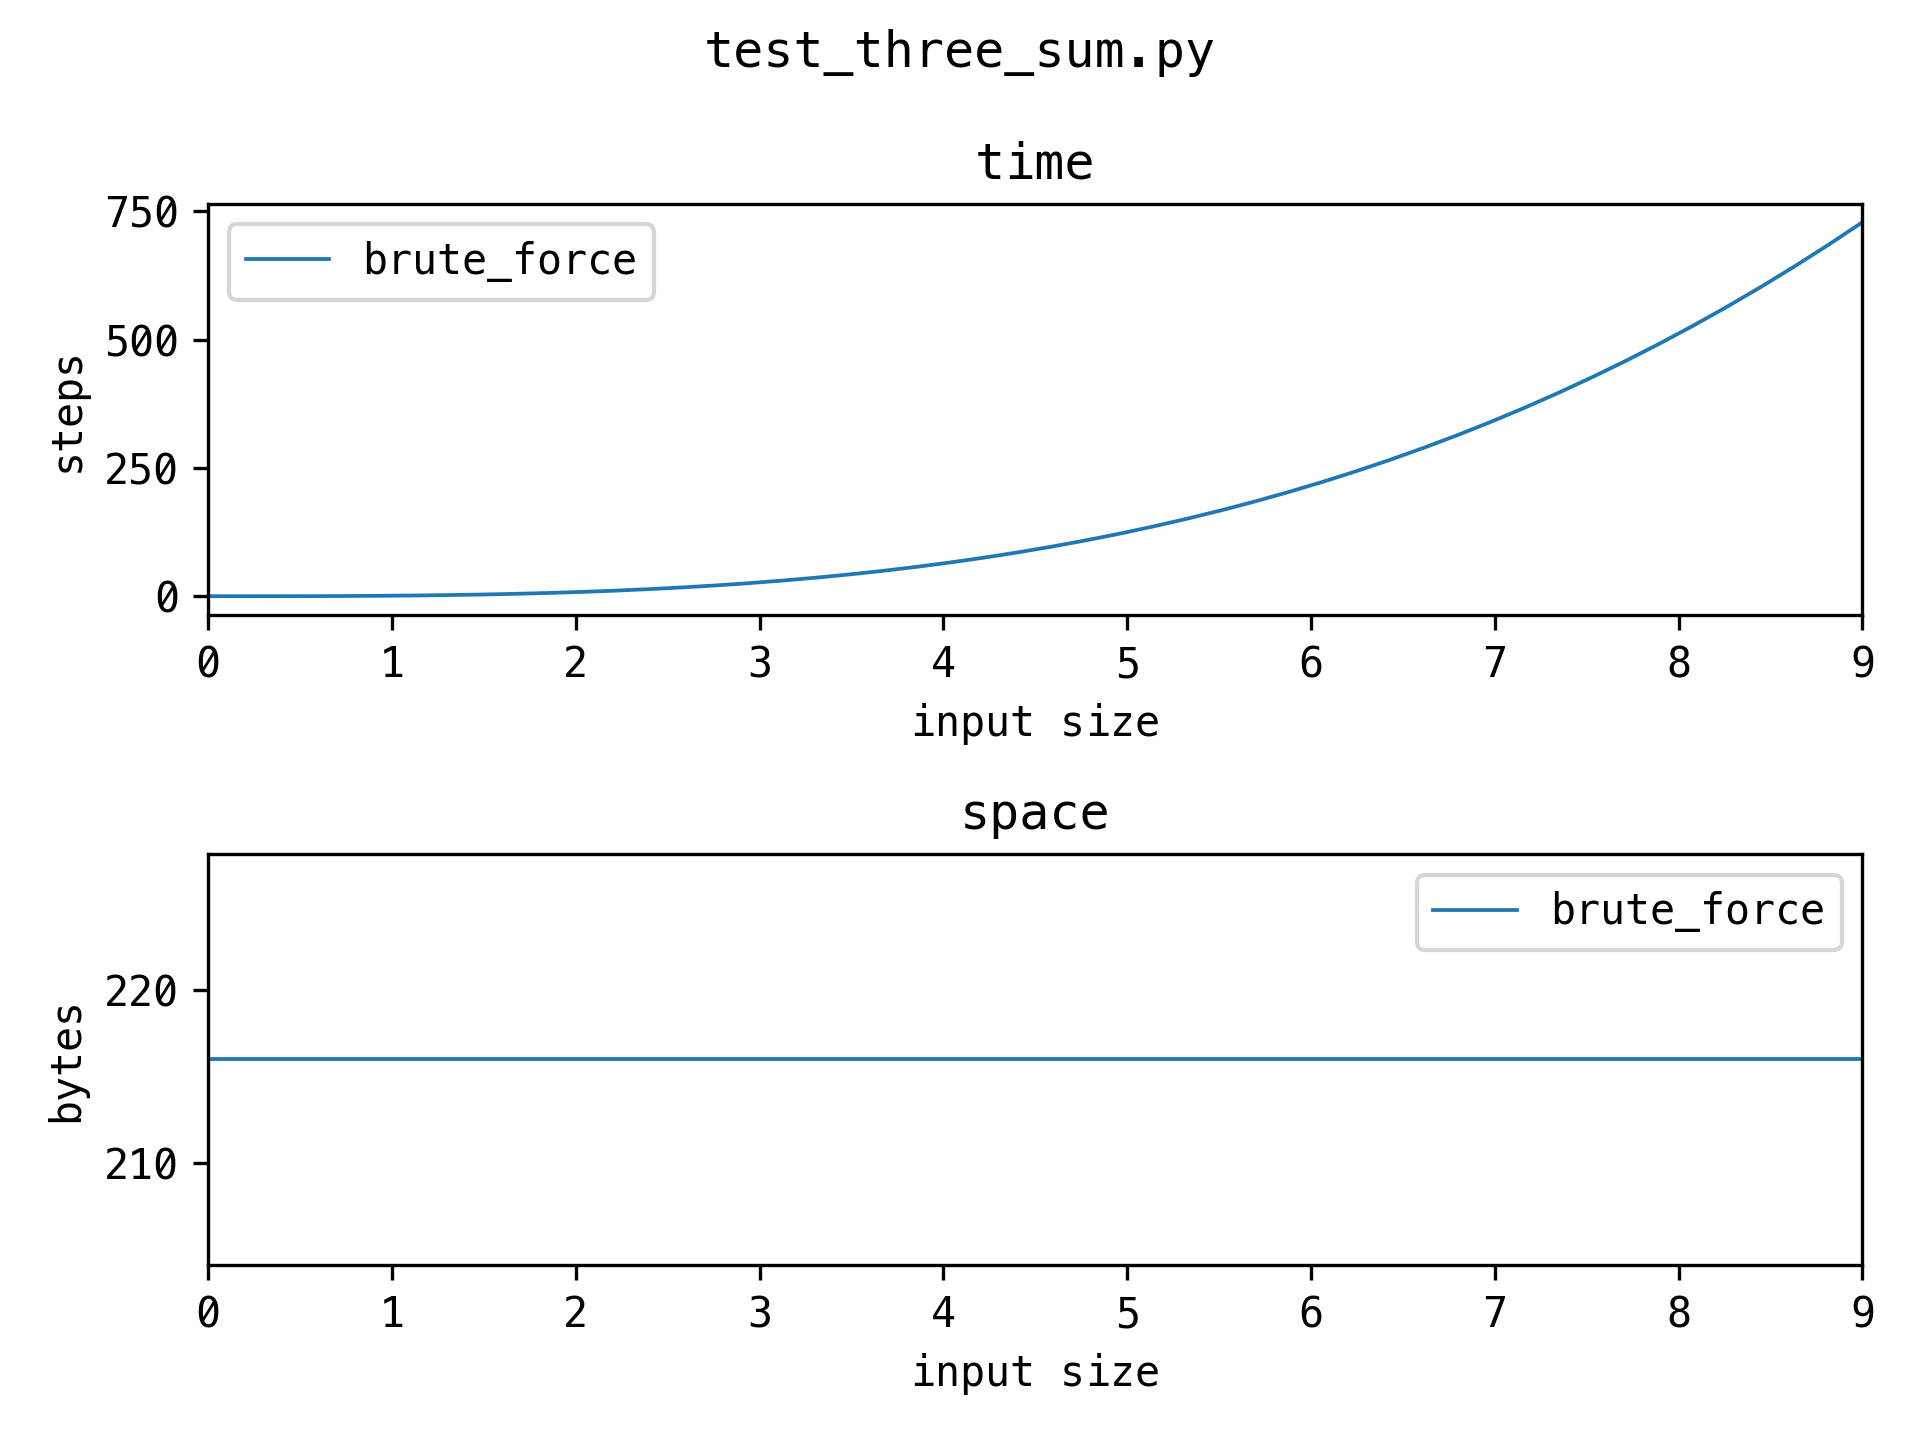
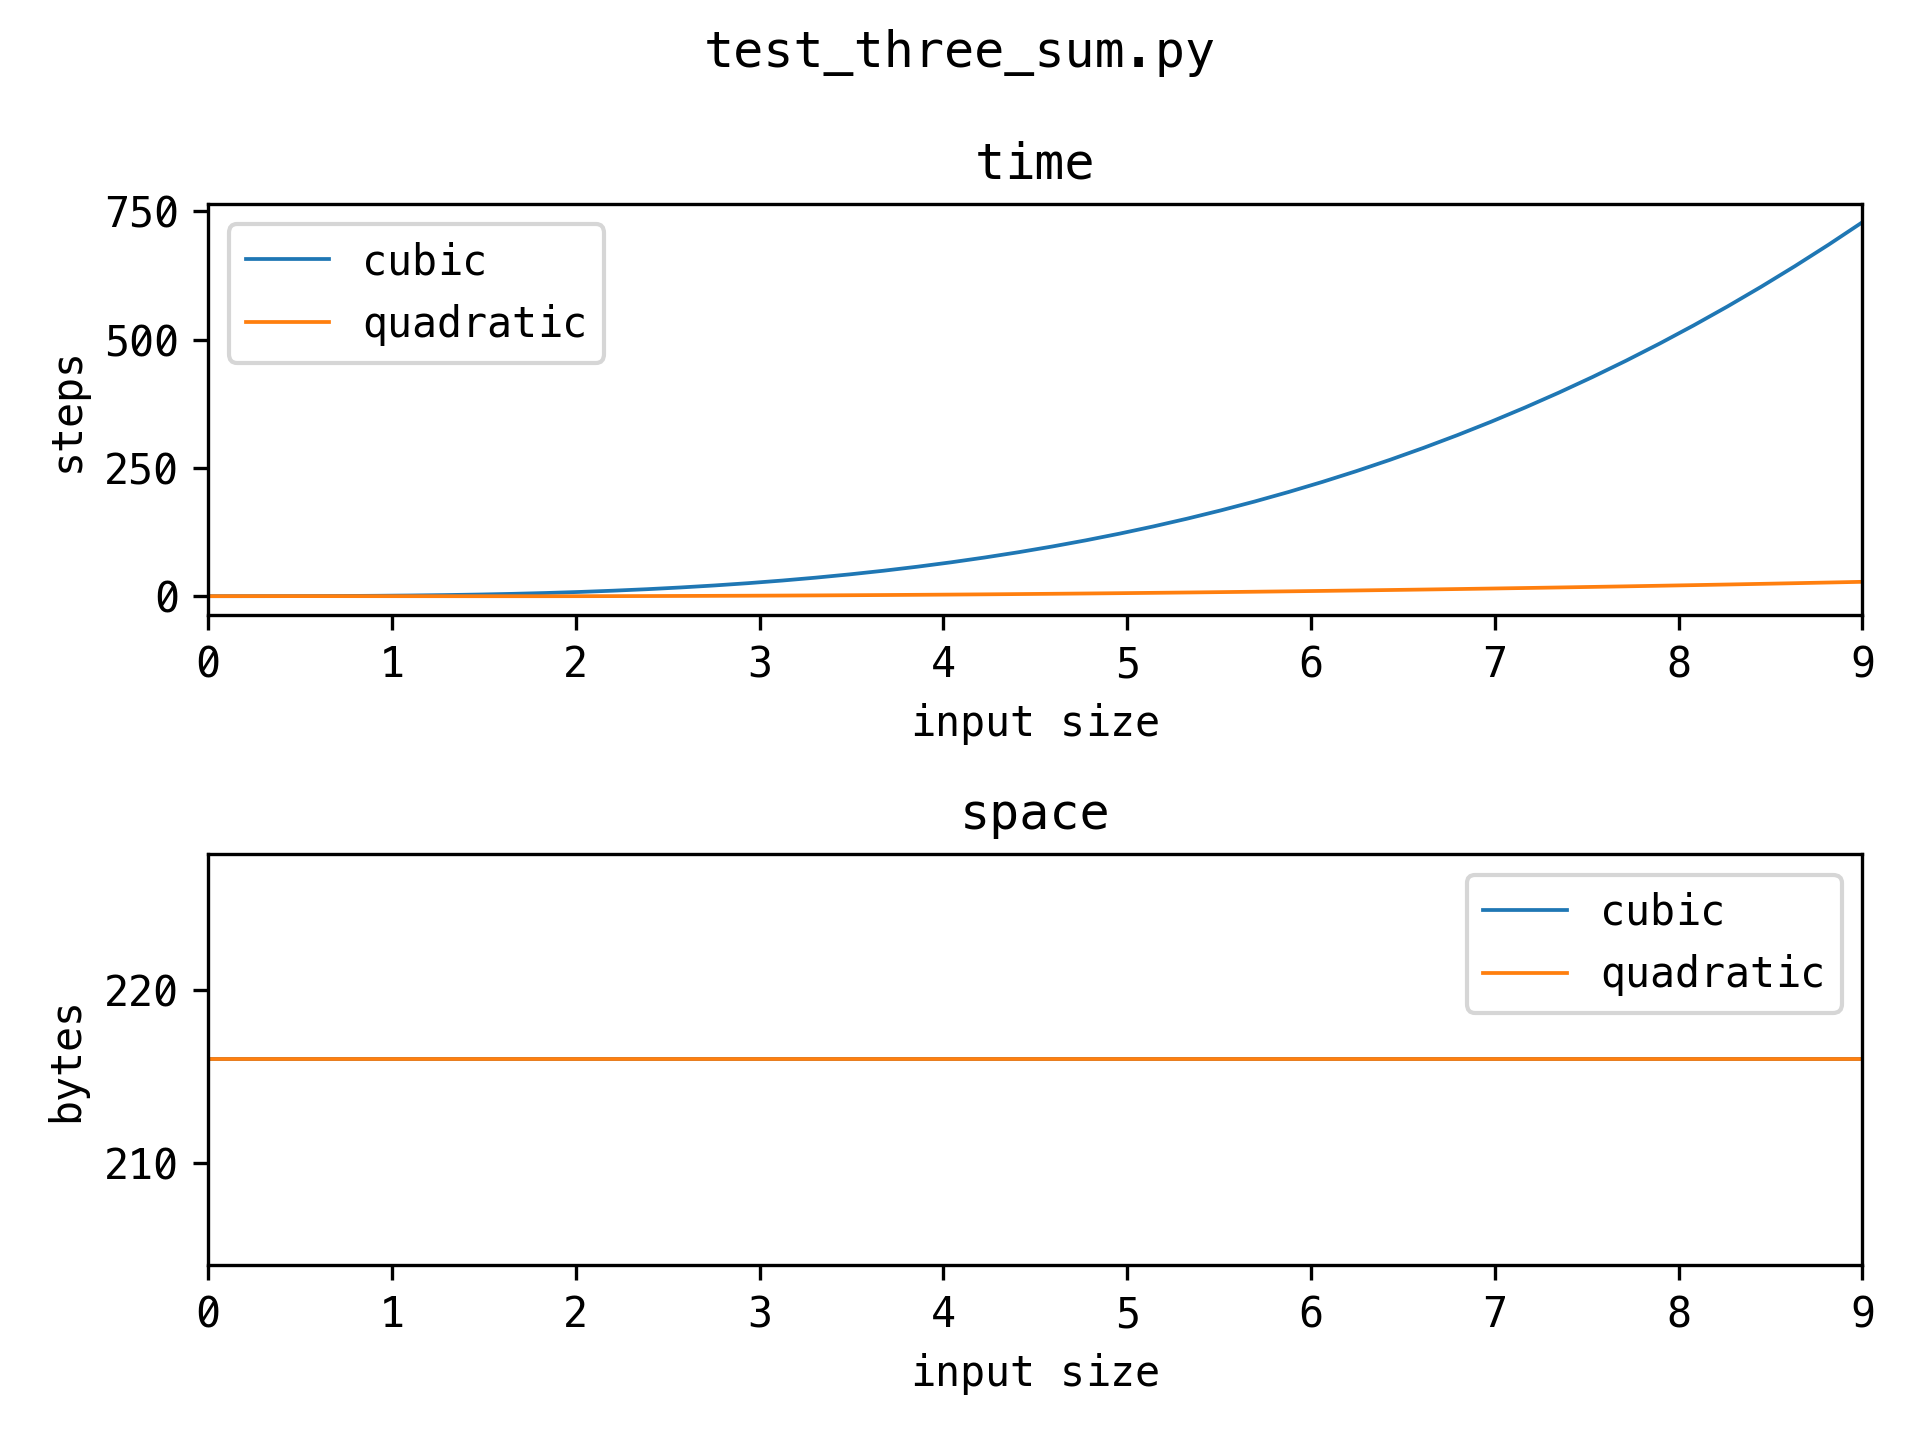
Add N^2 solution to 3sum

diff --git a/src/leetcode/test_three_sum.py b/src/leetcode/test_three_sum.py
@@ -6,7 +6,7 @@ from .. import utils
 
 
 class Solution(utils.BaseSolution):
-    def brute_force(self, nums: List[int]) -> List[List[int]]:
+    def cubic(self, nums: List[int]) -> List[List[int]]:
         triplets = set()
         self.complexity.store(triplets)
         for i, a in enumerate(nums):
@@ -16,6 +16,27 @@ class Solution(utils.BaseSolution):
                     if i != j and i != k and j != k:
                         if a + b + c == 0:
                             triplets.add(tuple(sorted([a, b, c])))
+        return [list(t) for t in triplets]
+
+    def quadratic(self, nums: List[int]) -> List[List[int]]:
+        triplets = set()
+        self.complexity.store(triplets)
+        nums.sort()
+        for i in range(len(nums)):
+            target = -nums[i]
+            j = i + 1
+            k = len(nums) - 1
+            while j < k:
+                self.complexity.step()
+                s = nums[j] + nums[k]
+                if s < target:
+                    j += 1
+                elif s > target:
+                    k -= 1
+                else:
+                    triplets.add(tuple(sorted((nums[i], nums[j], nums[k]))))
+                    j += 1
+                    k -= 1
         return [list(t) for t in triplets]
 
 
@@ -34,7 +55,7 @@ def test_solutions():
 
 def test_complexity():
     s = Solution()
-    tests = [range(n) for n in range(10)]
+    tests = [list(range(n)) for n in range(10)]
 
     for name, func in s.methods():
         for nums in tests:
